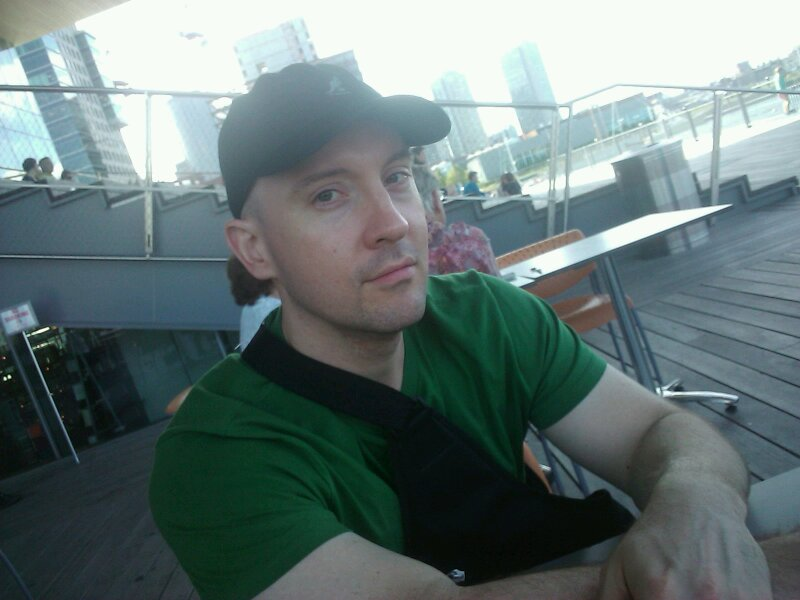
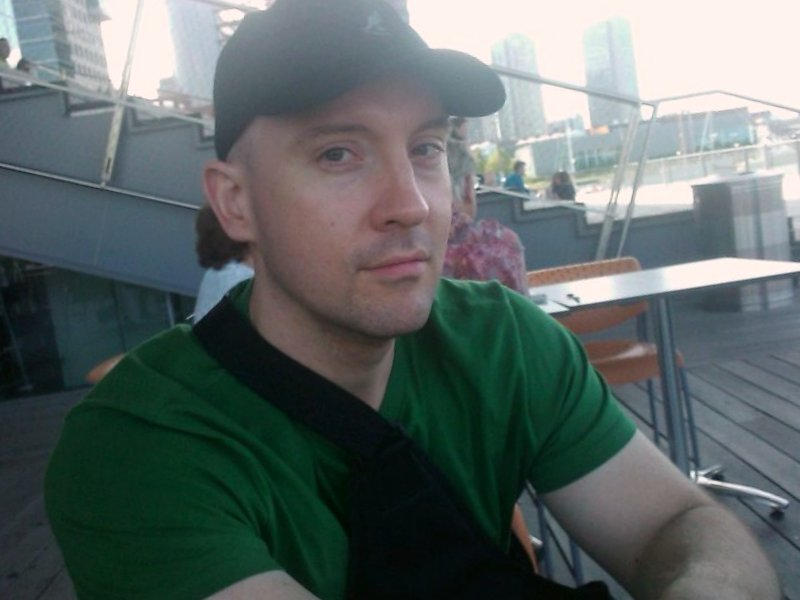
Another attempt to sync with github.

diff --git a/index.html b/index.html
@@ -1,43 +1,30 @@
 <!DOCTYPE html>
 <html lang = "en">
 <head>
-	<style>
-		h2 {text-align:center;}
-		img {display: block;
-			margin: auto;
-			width: 50%;
-			padding: 10px;
-		}
-	</style>		
-
+	<link rel="stylesheet" type="text/css" href="p1-style.css">
+	
 	<title>CSE15 Project Portfolio</title>
 	
 
 </head>
 <body>
-
-        <h2>Gerry Walden</h2>
 		
-		<h2>CSE15, Fall 2016</h2>
-
-		<img src='GWpic.jpg' style="float:left;width:440px;height:330px;border-radius:20%" alt='Gerry'>
+        <h2 class="title-main">Gerry Walden</h2>
 		
-		<h3>Project 2 (TBA)</h3>
-		<p>[Page link]</p>
-		<p>[Github link]</p>
+		<h3 class="sub-title">CSE15: Fall 2016 -- Project P1</h3>
 		
-		<hr>
+		<p class="proj-title">Project 2 (TBA)</p>
+		<p class="proj">Page link</p>
+		<p class="proj">Github link</p>
 		
+		<p class="proj-title">Project 3 (TBA)</p>
+		<p class="proj">Page link</p>
+		<p class="proj">Github link</p>
 		
-		<h3>Project 3 (TBA)</h3>
-		<p>[Page link</p>
-		<p>[Github link]</p>
+		<p class="proj-title">Project 4 (TBA)</p>
+		<p class="proj">Page link</p>
+		<p class="proj">Github link</p>
 		
-		<hr>
-		
-		<h3>Project 4 (TBA)</h3>
-		<p>[Page link]</p>
-		<p>[Github link]</p>
-
+		<img src='GWpic.jpg'  alt='Gerry'/> 
 </body>
 </html>

diff --git a/p1-style.css b/p1-style.css
@@ -1,0 +1,30 @@
+h2.title-main {
+	margin:auto;
+	display: inline block;
+	padding: 10px;
+	text-align:center;
+}
+
+h3.sub-title {
+    font-style: italic;
+	text-align: center;
+}
+.proj-title {
+	font-size: large;
+	background-color: lightblue;
+	text-align:center;
+}
+		
+.proj {
+	font-style: italic;
+	font-size: medium;
+	text-align:center;
+}
+
+img {
+    display: block;
+    margin: auto;
+    width: 30%;
+	border: 3px solid #ccc;
+	border-radius: 8px;
+}

diff --git a/readme.md b/readme.md
@@ -3,18 +3,16 @@
 ##CSci E15; Sept. 14, 2016
 
 ## Live URL
-<http://p2.dwa15.com>
+<http://p1.geewalden.me
 
 ## Description
-Project 1 
+Project 1  -- Setting up the hosts, servers, domains, and getting the portfolio page running.
 
 ## Demo
-<https://www.youtube.com/watch?v=RoqrD9ZD0N4&feature=youtu.be>
+<link>
 
 ## Details for teaching team
 No login required.
-
-
 
 ## Outside code
 None
